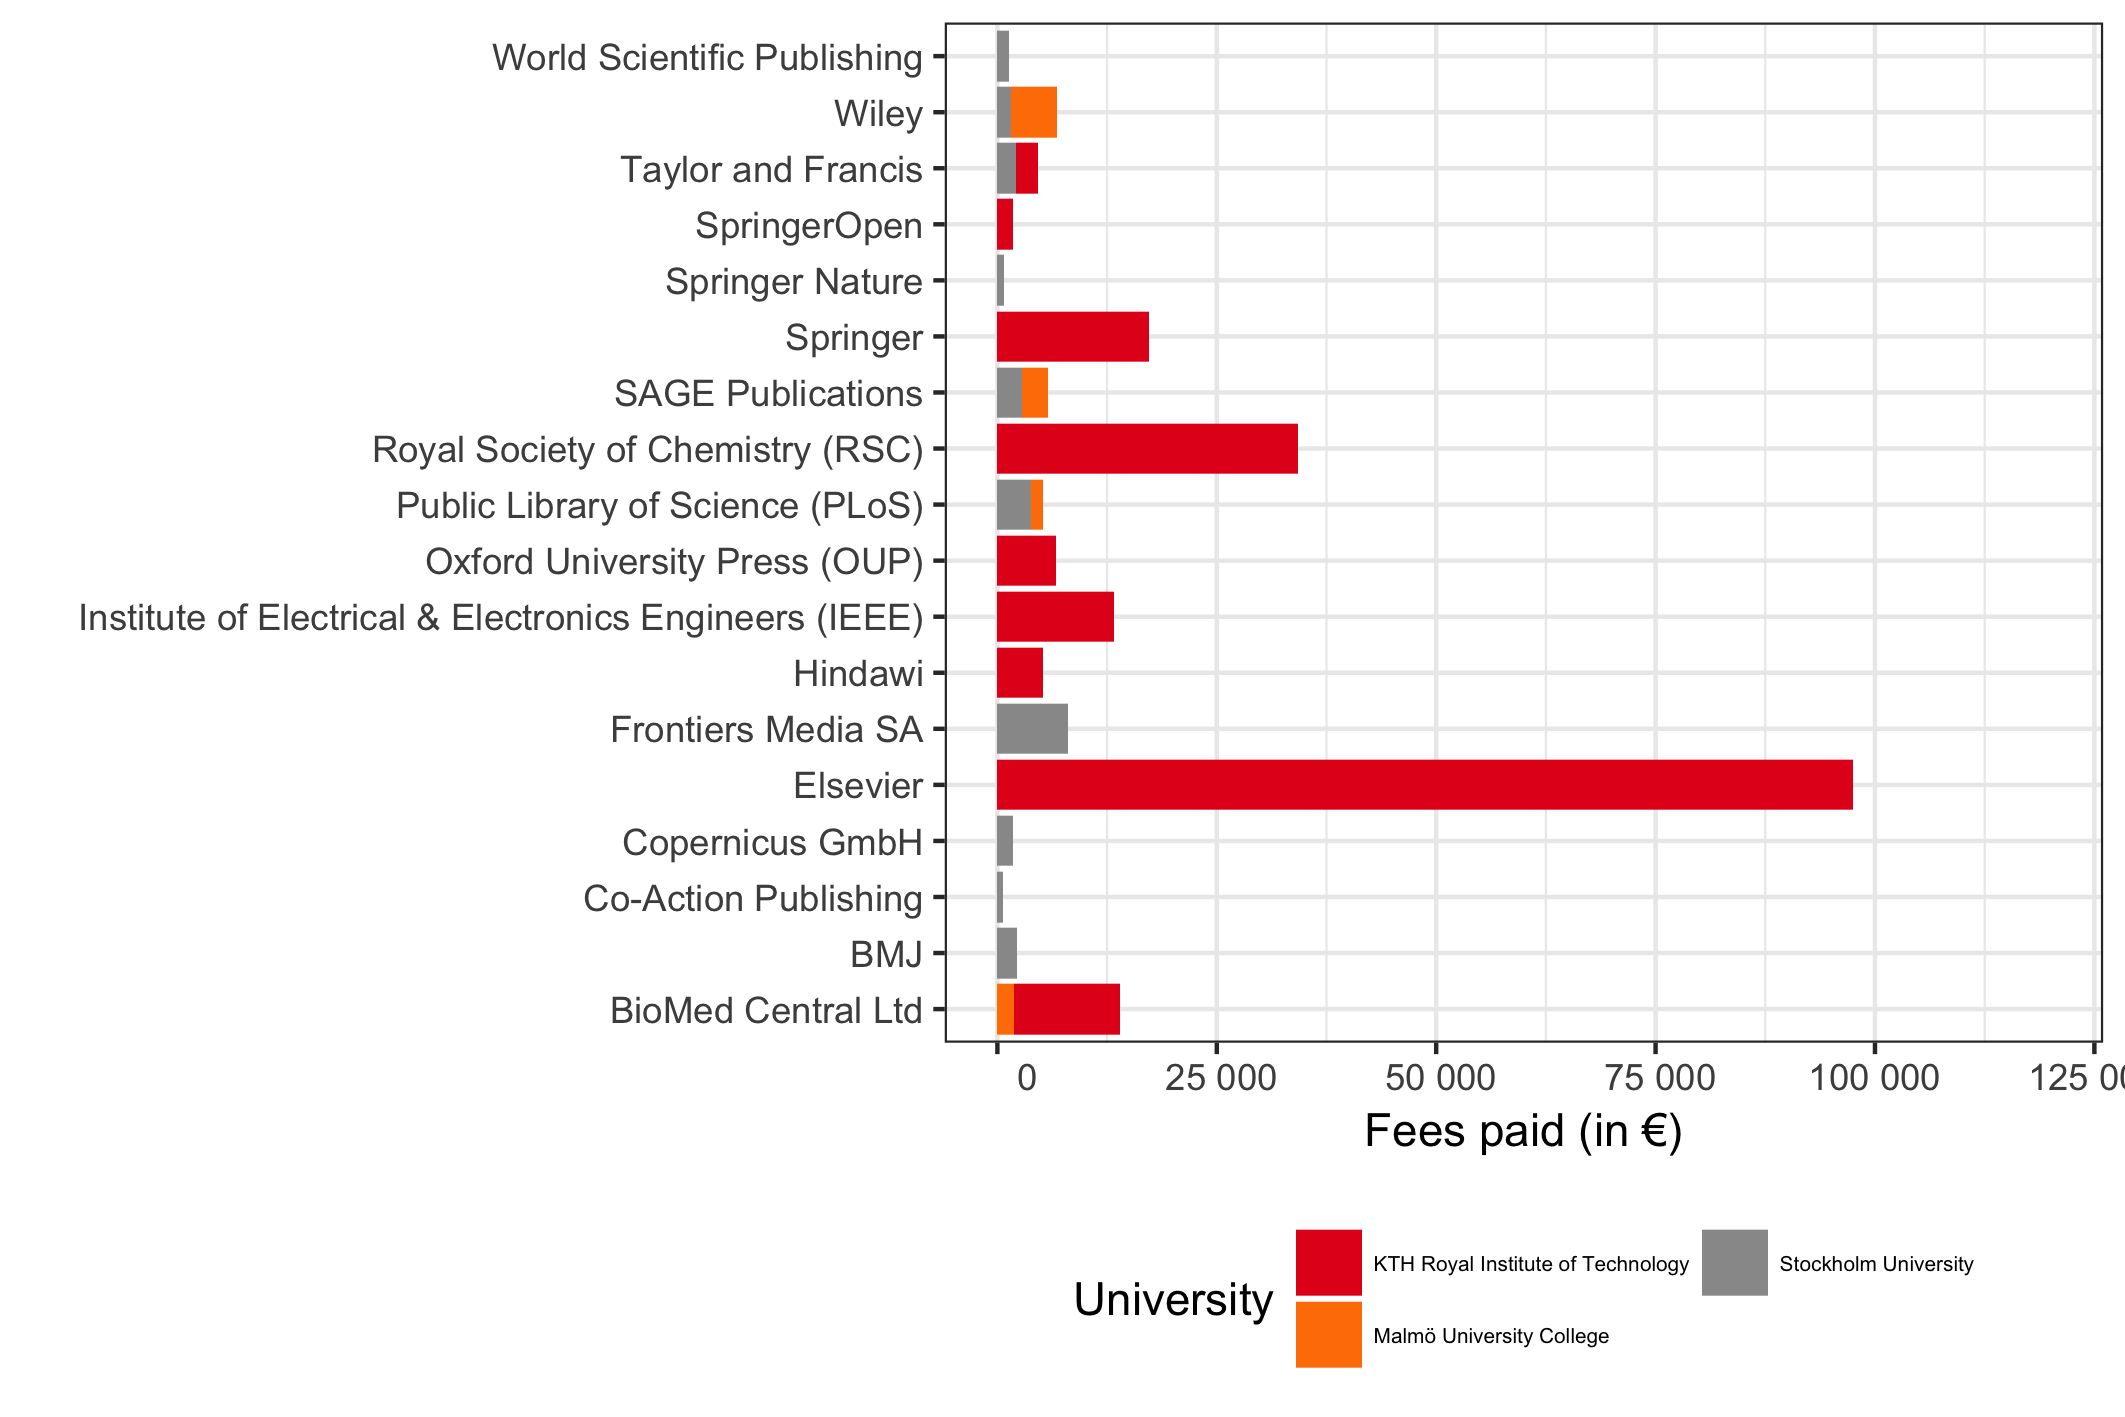
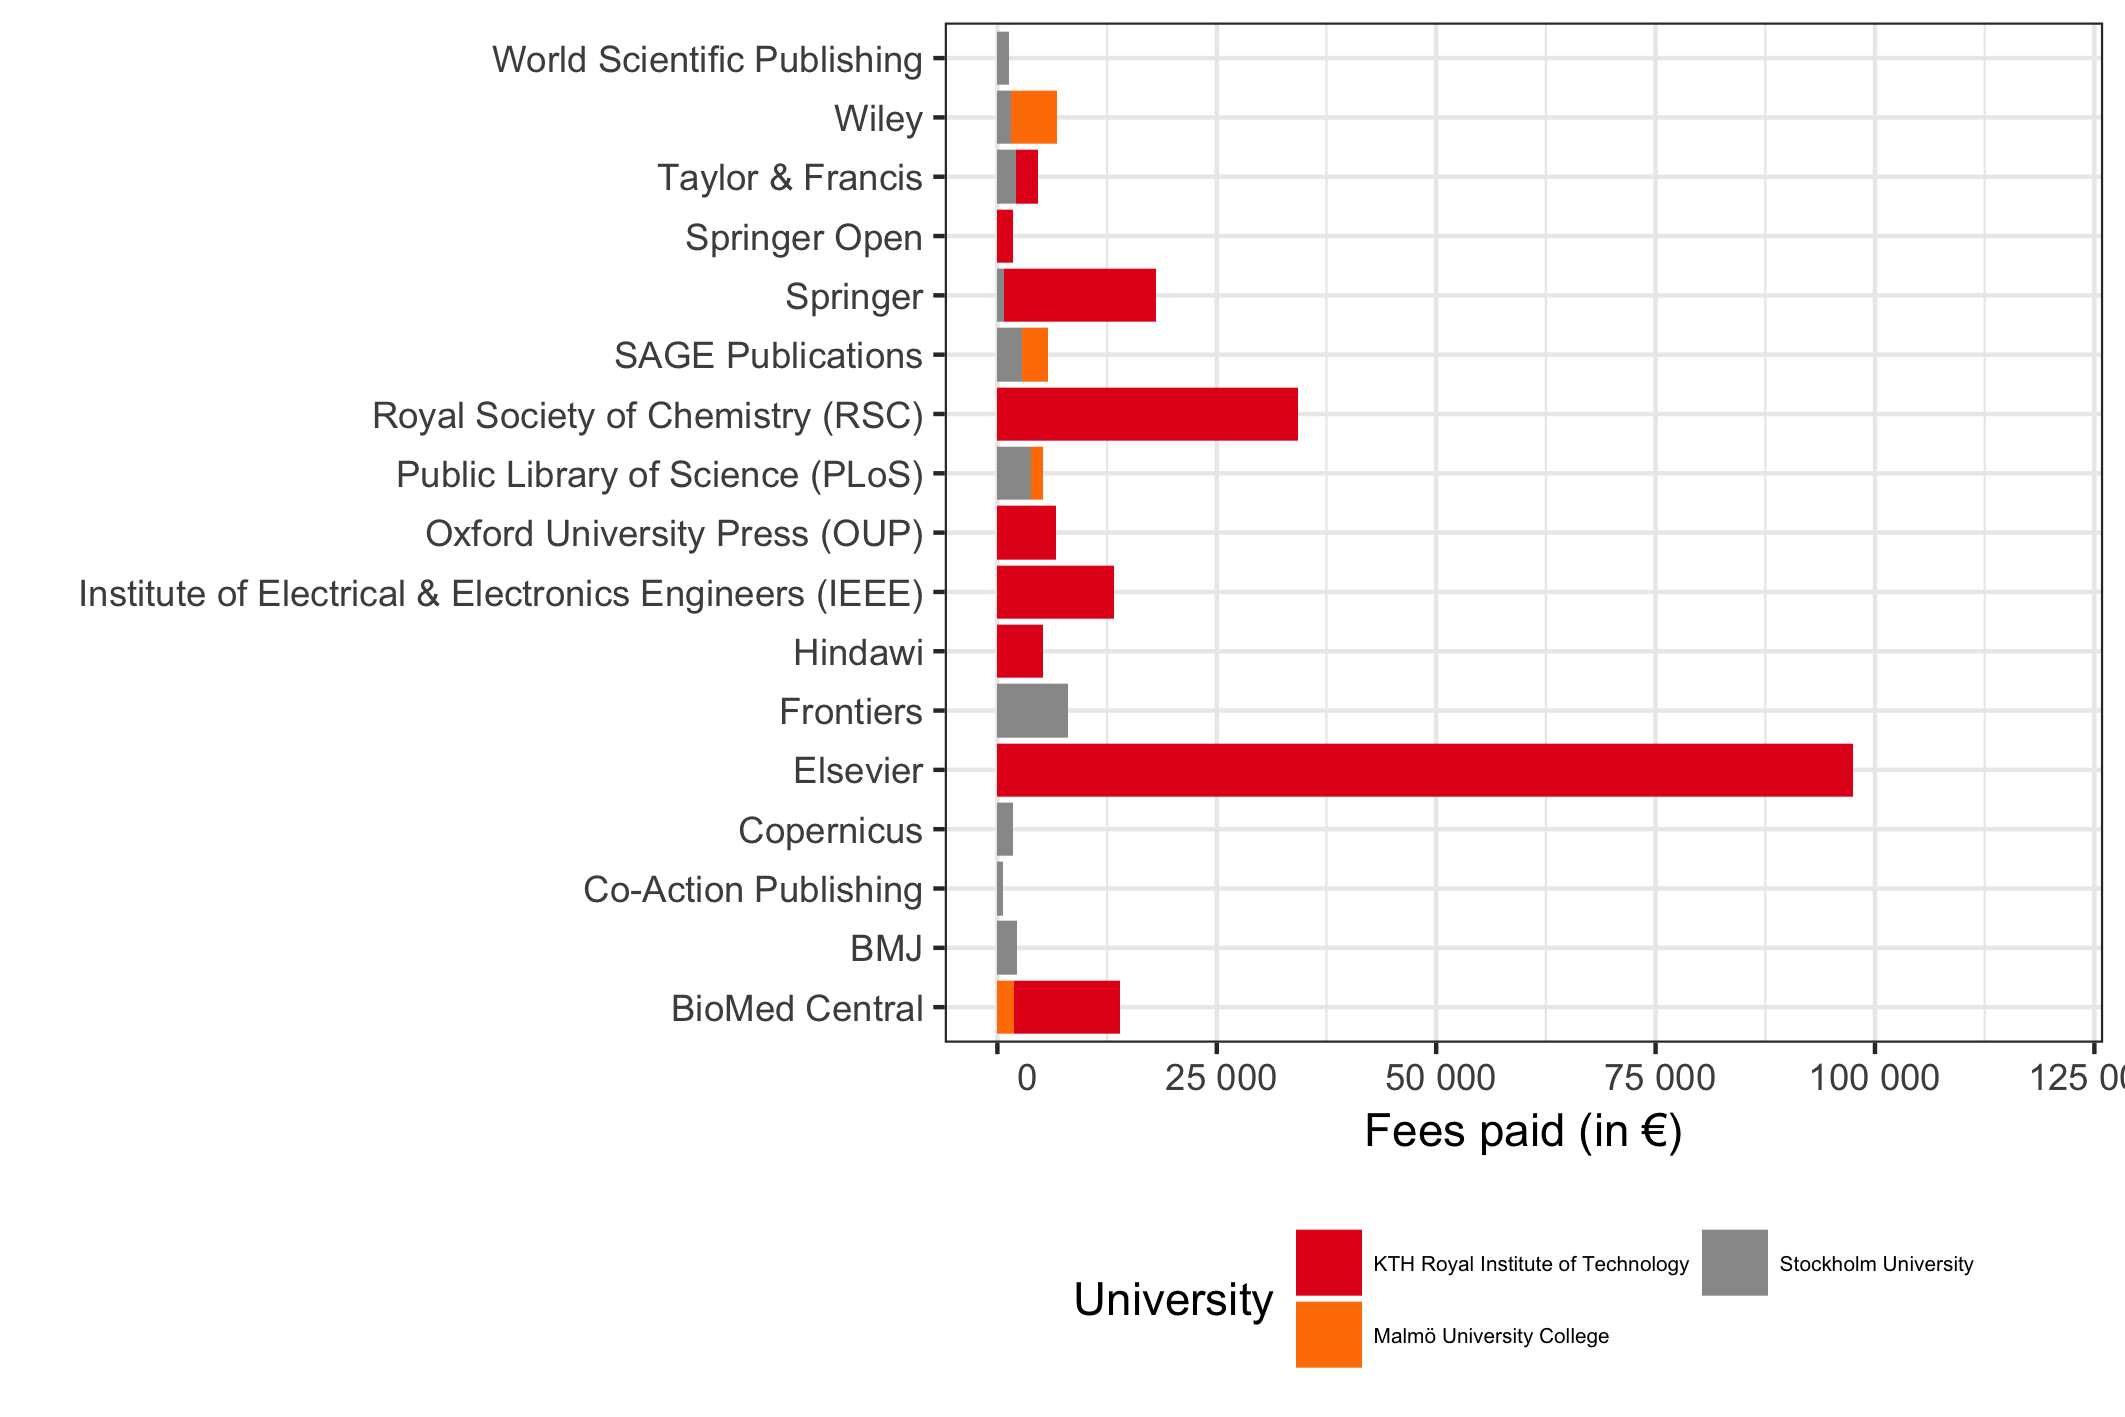
Update of statistics
More normalised publisher names with new pre-processing script
apc_csv_prepare.py

Changed region(s): [[0.0311, 0.0311, 0.9939, 0.7452]]

diff --git a/python/se/apc_csv_prepare.py b/python/se/apc_csv_prepare.py
@@ -8,6 +8,7 @@
 
     ToDo
     -----
+    Pseudo-code planning for Publisher name enhancement semi-automatic through CrossRef
 
     Done
     -----
@@ -25,8 +26,16 @@ import argparse
 import codecs
 import locale
 import sys
+import os
+import urllib2
+import xml.etree.ElementTree as ET
+
+# Add path for script environment
+# sys.path.append('/Users/ulfkro/OneDrive/KB-dokument/Open Access/Kostnader/Open APC Sweden/openapc-se')
+sys.path.append('/Users/ulfkro/OneDrive/KB-dokument/Open Access/Kostnader/Open APC Sweden/openapc-se_development')
 
 import python.openapc_toolkit as oat
+
 
 # Global parameters
 # ======================================================================================================================
@@ -57,29 +66,10 @@ ERROR_MSGS = {
 # Where do we find and put the data
 STR_DATA_DIRECTORY = '../../data'
 
-# List of institutions' files to prepare
-LST_APC_FILES = [
-    # 'kth/apc_kth_2015.tsv',
-    # 'mah/apc_mah_2015.csv',
-    # # 'slu/apc_slu_2015.csv',
-    # # 'su/apc_su_2015.csv',
-    # 'su/apc_su_2015.tsv',
-    # 'su/apc_su_2016.csv',
-]
-
 STR_APC_FILE_LIST = STR_DATA_DIRECTORY + '/' + 'apc_file_list.txt'
 
 # Cleaned result will be put here
 STR_RESULT_FILE_NAME = STR_DATA_DIRECTORY + '/' + 'apc_se_merged.csv'
-
-# Name mapping for institution acronyms. Move this to reporting phase in R?
-DCT_CODE_NAME_MAP = {
-    # 'kth': u'KTH Royal Institute of Technology',
-    # 'ltu': u'Luleå Technical University',
-    # 'mah': u'Malmö University College',
-    # 'slu': u'Swedish University of Agricultural Sciences',
-    # 'su': u'Stockholm University',
-}
 
 # ======================================================================================================================
 
@@ -94,6 +84,10 @@ def main():
     # Write cleaned data to summary file
     write_cleaned_data(lst_cleaned_data)
 
+# ======================================================================================================================
+
+
+# ======================================================================================================================
 # ======================================================================================================================
 
 
@@ -113,7 +107,7 @@ def collect_apc_data():
 
     args = parser.parse_args()
 
-    # print 'Processing files:'
+    print 'Processing files:'
     # print LST_APC_FILES
 
     # A list for the cleaned data
@@ -239,7 +233,10 @@ def clean_apc_data(str_input_file, args):
     csv_file.seek(0)
     reader = oat.UnicodeReader(csv_file, dialect=dialect, encoding=enc)
 
-    print "\n    *** Starting cleaning of file *** \n"
+    print "\nNOTE:    *** Starting cleaning of file *** \n"
+
+    # Create a publisher name normalising object
+    obj_publisher_normaliser = PublisherNormaliser()
 
     cleaned_content = []
     error_messages = []
@@ -288,15 +285,25 @@ def clean_apc_data(str_input_file, args):
             if col_number == 3 and not csv_column:
                 csv_column = u'0'
 
+            # Publisher name normalisation, send DOI for CrossRef lookup
+            if col_number == 6:
+                str_publisher_name_normalised = obj_publisher_normaliser.normalise(csv_column, row[3])
+                # print str_publisher_name_normalised
+                csv_column = str_publisher_name_normalised
+
             current_row.append(csv_column)
 
         # Check output if verbose mode
         if args.verbose:
             print current_row
+            # obj_publisher_normaliser.write_new_name_map()
 
         cleaned_content.append(current_row)
 
     csv_file.close()
+
+    # Write new names to file
+    obj_publisher_normaliser.write_new_name_map()
 
     if not error_messages:
         oat.print_g("Metadata cleaning successful, no errors occured")
@@ -309,6 +316,115 @@ def clean_apc_data(str_input_file, args):
 
 # ======================================================================================================================
 
+
+# ======================================================================================================================
+class PublisherNormaliser(object):
+    """ Class to keep data and methods for publisher name normalisation """
+
+    STR_PUBLISHER_NAME_MAP_FILE = STR_DATA_DIRECTORY + '/' + 'publisher_name_map.tsv'
+
+    # ------------------------------------------------------------------------------------------------------------------
+    def __init__(self):
+        """ Create name mapping dictionary for processing """
+
+        self.dct_publisher_name_map = {}
+
+        fp_publisher_map = open(self.STR_PUBLISHER_NAME_MAP_FILE, 'r')
+        for str_row in fp_publisher_map:
+            lst_row = str_row.split('\t')
+            self.dct_publisher_name_map[lst_row[0].lower()] = lst_row[1].strip()
+
+        # print self.dct_publisher_name_map
+    # ------------------------------------------------------------------------------------------------------------------
+
+    # ------------------------------------------------------------------------------------------------------------------
+    def normalise(self, str_publisher_name_in, str_doi):
+        """ The main procedure to look up publisher name in name map and CrossRef. Calls sub-methods. """
+
+        # Check if we already have this name in the map
+        str_publisher_name_lower = str_publisher_name_in.strip().lower()
+        if str_publisher_name_lower in self.dct_publisher_name_map.keys():
+            str_publisher_name_normalised = self.dct_publisher_name_map[str_publisher_name_lower]
+            print 'NOTE: Name "{}" normalised to "{}"'.format(str_publisher_name_in, str_publisher_name_normalised)
+            return str_publisher_name_normalised
+        elif str_doi:
+            # Look up in CrossRef
+            tpl_crossref_result = self.get_crossref_names(str_doi)
+            print tpl_crossref_result
+            str_publisher_name_normalised = self.ask_user(str_publisher_name_in, tpl_crossref_result)
+            return str_publisher_name_normalised
+        else:
+            print 'WARNING: No normalisation of name {}'.format(str_publisher_name_in)
+            return str_publisher_name_in
+    # ------------------------------------------------------------------------------------------------------------------
+
+    # ------------------------------------------------------------------------------------------------------------------
+    def ask_user(self, str_publisher_name_in, tpl_crossref_result):
+        """ Ask opinion from user and return choice """
+        print 'NOTE: Several name choices found. Please chose one alternative or enter new suggested name'
+        print '1) {}'.format(str_publisher_name_in)
+        print '2) {}'.format(tpl_crossref_result[0])
+        print '3) {}'.format(tpl_crossref_result[1])
+        print '4) Enter new preferred name'
+        str_choice = raw_input('Choose [2]:  ')
+        if str_choice == '1':
+            str_publisher_name_normalised = str_publisher_name_in
+        elif str_choice == '2':
+            str_publisher_name_normalised = tpl_crossref_result[0]
+        elif str_choice == '3':
+            str_publisher_name_normalised = tpl_crossref_result[1]
+        elif str_choice:
+            str_publisher_name_normalised = str_choice
+        else:
+            str_publisher_name_normalised = tpl_crossref_result[0]
+
+        # Add choice to mapping dictionary
+        self.dct_publisher_name_map[str_publisher_name_in.lower()] = str_publisher_name_normalised
+        # print self.dct_publisher_name_map
+        return str_publisher_name_normalised
+    # ------------------------------------------------------------------------------------------------------------------
+
+    # ------------------------------------------------------------------------------------------------------------------
+    def write_new_name_map(self):
+        """ Write the new name map to file to remember for next processing """
+        fp_name_map_file = open(self.STR_PUBLISHER_NAME_MAP_FILE, 'w')
+        for str_key in self.dct_publisher_name_map.keys():
+            fp_name_map_file.write('{}\t{}\n'.format(str_key, self.dct_publisher_name_map[str_key]))
+        fp_name_map_file.close()
+    # ------------------------------------------------------------------------------------------------------------------
+
+    # ------------------------------------------------------------------------------------------------------------------
+    def get_crossref_names(self, doi):
+        """ Get Crossref info
+            <crm-item name="publisher-name" type="string">Institute of Electrical and Electronics Engineers (IEEE)</crm-item>
+            <crm-item name="prefix-name" type="string">Institute of Electrical and Electronics Engineers</crm-item>
+        """
+        url = 'http://data.crossref.org/' + doi
+        headers = {"Accept": "application/vnd.crossref.unixsd+xml"}
+        req = urllib2.Request(url, None, headers)
+        try:
+            response = urllib2.urlopen(req)
+            content_string = response.read()
+            root = ET.fromstring(content_string)
+            # print content_string
+            prefix_name_result = root.findall(".//cr_qr:crm-item[@name='prefix-name']",
+                                  {"cr_qr": "http://www.crossref.org/qrschema/3.0"})
+            publisher_name_result = root.findall(".//cr_qr:crm-item[@name='publisher-name']",
+                                  {"cr_qr": "http://www.crossref.org/qrschema/3.0"})
+
+            return (publisher_name_result[0].text, prefix_name_result[0].text)
+        except urllib2.HTTPError as httpe:
+            code = str(httpe.getcode())
+            return "HTTPError: {} - {}".format(code, httpe.reason)
+        except urllib2.URLError as urle:
+            return "URLError: {}".format(urle.reason)
+        except ET.ParseError as etpe:
+            return "ElementTree ParseError: {}".format(str(etpe))
+
+    # ------------------------------------------------------------------------------------------------------------------
+
+
+# ======================================================================================================================
 
 # ======================================================================================================================
 class CSVColumn(object):
